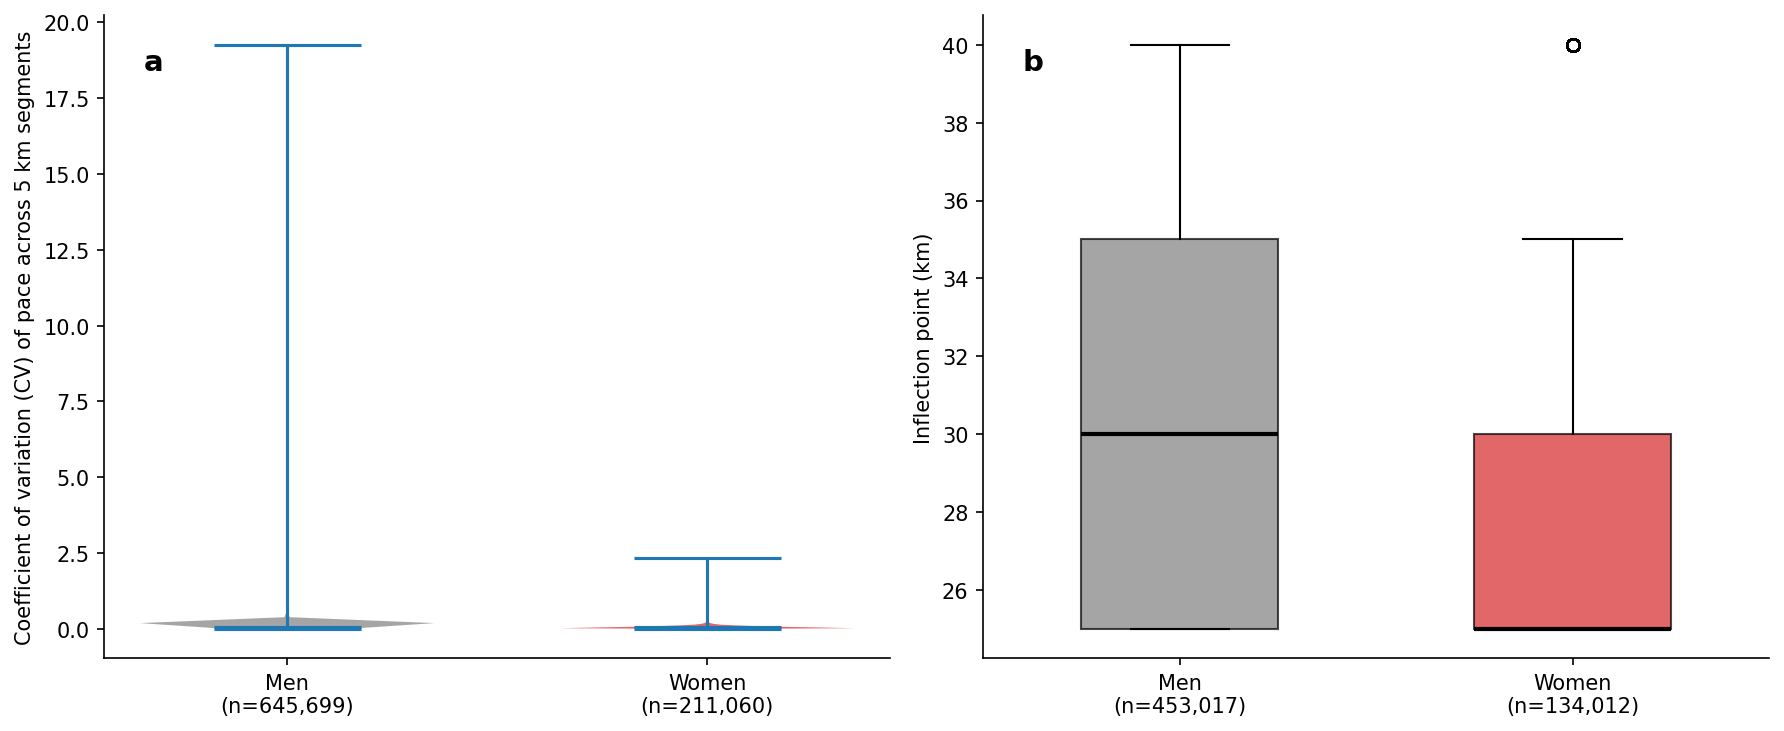
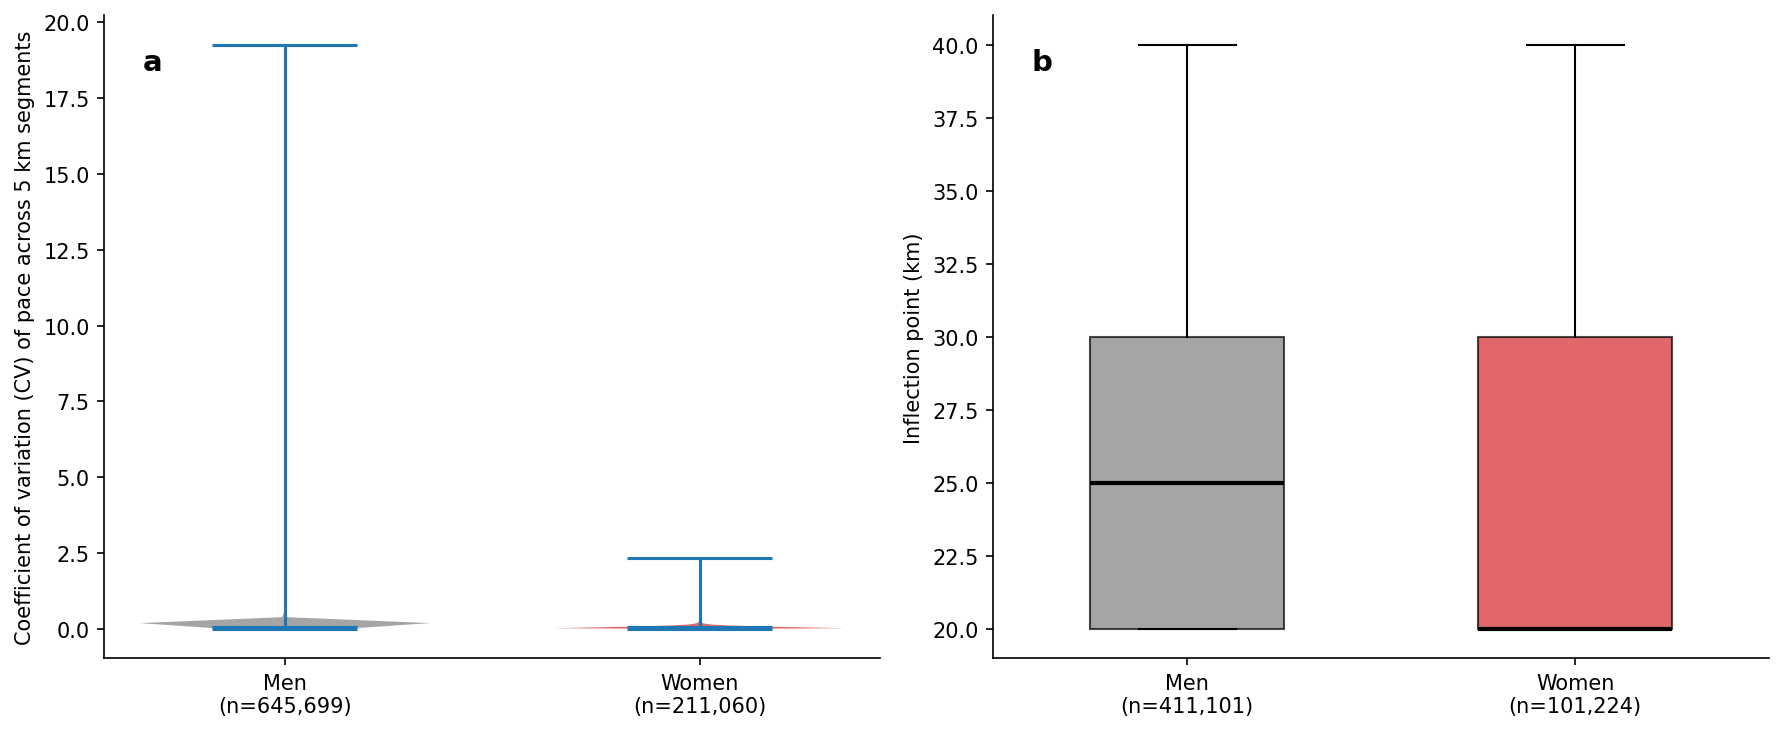
fix(audit-r1): apply Round 1 audit findings F-001 through F-010
- F-001/002/003 stale numbers in manuscript text (L132, L152-153, L177) reconciled
  with current notebook outputs (post-baseline-rebuild)
- F-004: new r1_perf_cat_prevalence.py persists per-category × gender prevalence,
  ratio, and OR (closes 'six times sub-3h' auditability gap; CSV row Competitive
  shows ratio 6.06, OR 6.14)
- F-005: TIGHTEN inflection criterion in r1_pacing_fine_grained.py — now requires
  pace > threshold for ALL subsequent segments (matches Methods 'remained slower
  thereafter'). Inflection numbers updated throughout: median M 25 km (was 30);
  median F 20 km (was 25); NaN% M 36% (was 30); F 52% (was 37). Figure D, Table
  S5, manuscript Methods/Results caption all updated.
- F-006: Figure A caption discloses both total finisher N and histogram pacing-valid N
- F-007: temporal LR CI ±0.17 → ±0.18 (raw 1.96·SE = 0.176 rounds to 0.18)
- F-008: delete no-op self-assignment _r1_common.py
- F-009: persist inflection median/IQR/NaN% to inflection_distribution.csv
- F-010: extract threshold/graded-severity inline computation to committed
  r1_threshold_severity.py (idempotent reproduction)
- F-011/012/013 (LOW cosmetic) deferred

Code audit Round 2 dispatch pending.

diff --git a/notebooks/r1_threshold_severity.py b/notebooks/r1_threshold_severity.py
@@ -1,0 +1,78 @@
+"""Threshold sensitivity (15/20/25%) + graded severity classification.
+
+Closes audit Finding-010: extracts the previously inline-only computations
+into a committed, idempotent script so Tables S2 are reproducible from a
+versioned source.
+
+Outputs:
+- notebooks/results/r1/threshold_sensitivity.csv (.md) — Panel A of Table S2
+- notebooks/results/r1/graded_severity.csv (.md) — Panel B of Table S2
+"""
+import sys
+from pathlib import Path
+
+sys.path.insert(0, str(Path(__file__).parent))
+from _r1_common import load_data, save_results
+
+import numpy as np
+import pandas as pd
+from scipy import stats
+
+
+def or_at_threshold(d, th):
+    """Compute crude OR (men vs women) for hit_wall = (slowdown >= th)."""
+    d2 = d.assign(hit=(d["percentage_slowdown"] >= th).astype(int))
+    m = d2[d2["gender_label"] == "Male"]
+    w = d2[d2["gender_label"] == "Female"]
+    a, b = int(m["hit"].sum()), int(len(m) - m["hit"].sum())
+    c, d_ = int(w["hit"].sum()), int(len(w) - w["hit"].sum())
+    or_v = (a * d_) / (b * c)
+    se = np.sqrt(1 / a + 1 / b + 1 / c + 1 / d_)
+    lo = np.exp(np.log(or_v) - 1.96 * se)
+    hi = np.exp(np.log(or_v) + 1.96 * se)
+    chi2, p, _, _ = stats.chi2_contingency([[a, b], [c, d_]])
+    return {
+        "threshold_pct": f"≥{th}%",
+        "n_M": len(m), "n_F": len(w),
+        "wall_M_pct": 100 * a / len(m),
+        "wall_F_pct": 100 * c / len(w),
+        "OR": or_v, "OR_CI_lo": lo, "OR_CI_hi": hi,
+        "chi2_p": p,
+    }
+
+
+if __name__ == "__main__":
+    df = load_data().dropna(subset=["percentage_slowdown", "gender_label"])
+    print(f"Valid rows: {len(df):,}")
+
+    # === Panel A — threshold sensitivity ===
+    sens = pd.DataFrame([or_at_threshold(df, t) for t in [15, 20, 25]])
+    print("\n=== THRESHOLD SENSITIVITY ===")
+    print(sens.to_string(index=False))
+    save_results(sens, "threshold_sensitivity")
+
+    # === Panel B — graded severity ===
+    bins = [(10, 15, "Mild (10–15%)"),
+            (15, 20, "Moderate (15–20%)"),
+            (20, 25, "Severe (20–25%)"),
+            (25, float("inf"), "Catastrophic (>25%)")]
+
+    total_m = (df["gender_label"] == "Male").sum()
+    total_f = (df["gender_label"] == "Female").sum()
+    graded_rows = []
+    for lo, hi, label in bins:
+        sub = df[(df["percentage_slowdown"] >= lo) & (df["percentage_slowdown"] < hi)]
+        n_m = (sub["gender_label"] == "Male").sum()
+        n_f = (sub["gender_label"] == "Female").sum()
+        graded_rows.append({
+            "Severity": label,
+            "n_M": int(n_m), "n_F": int(n_f),
+            "pct_M": 100 * n_m / total_m,
+            "pct_F": 100 * n_f / total_f,
+            "ratio_M_to_F": (n_m / total_m) / (n_f / total_f) if n_f > 0 else None,
+        })
+
+    graded = pd.DataFrame(graded_rows)
+    print("\n=== GRADED SEVERITY ===")
+    print(graded.to_string(index=False))
+    save_results(graded, "graded_severity")

diff --git a/notebooks/r1_perf_cat_prevalence.py b/notebooks/r1_perf_cat_prevalence.py
@@ -1,0 +1,61 @@
+"""Per-performance-category × gender wall-hit prevalence and Odds Ratios.
+
+Closes audit Finding-004: persists the "six times sub-3h" (and equivalent
+ratios for Advanced/Intermediate/Recreational/Casual) to a committed CSV so
+all manuscript-cited per-category prevalences and ORs have a traceable source.
+
+Output: notebooks/results/r1/perf_cat_gender_prevalence.csv (.md)
+"""
+import sys
+from pathlib import Path
+
+sys.path.insert(0, str(Path(__file__).parent))
+from _r1_common import load_data, save_results
+
+import numpy as np
+import pandas as pd
+
+PERF_ORDER = ["Competitive (<3h)", "Advanced", "Intermediate", "Recreational", "Casual"]
+
+
+def or_with_ci(a, b, c, d):
+    """Crude OR with 95% CI via log-OR + Woolf SE. a,b: men hit/no-hit; c,d: women hit/no-hit."""
+    if min(a, b, c, d) == 0:
+        return np.nan, np.nan, np.nan
+    or_v = (a * d) / (b * c)
+    se = np.sqrt(1 / a + 1 / b + 1 / c + 1 / d)
+    return or_v, np.exp(np.log(or_v) - 1.96 * se), np.exp(np.log(or_v) + 1.96 * se)
+
+
+if __name__ == "__main__":
+    df = load_data()
+    df = df.dropna(subset=["hit_wall", "performance_category", "gender_label"])
+    df["hit_wall"] = df["hit_wall"].astype(int)
+    print(f"Valid rows: {len(df):,}")
+
+    rows = []
+    for cat in PERF_ORDER:
+        sub = df[df["performance_category"] == cat]
+        m = sub[sub["gender_label"] == "Male"]
+        w = sub[sub["gender_label"] == "Female"]
+        n_m, n_w = len(m), len(w)
+        hit_m, hit_w = int(m["hit_wall"].sum()), int(w["hit_wall"].sum())
+        pct_m = 100 * hit_m / n_m if n_m > 0 else np.nan
+        pct_w = 100 * hit_w / n_w if n_w > 0 else np.nan
+        ratio = pct_m / pct_w if pct_w and pct_w > 0 else np.nan
+        a, b = hit_m, n_m - hit_m
+        c, d = hit_w, n_w - hit_w
+        or_v, ci_lo, ci_hi = or_with_ci(a, b, c, d)
+        rows.append({
+            "performance_category": cat,
+            "n_M": n_m, "n_F": n_w,
+            "hit_M": hit_m, "hit_F": hit_w,
+            "wall_pct_M": pct_m, "wall_pct_F": pct_w,
+            "prevalence_ratio_M_to_F": ratio,
+            "OR": or_v, "OR_CI_lo": ci_lo, "OR_CI_hi": ci_hi,
+        })
+
+    table = pd.DataFrame(rows)
+    print("\nPER-PERFORMANCE-CATEGORY × GENDER:")
+    print(table.to_string(index=False))
+    save_results(table, "perf_cat_gender_prevalence")

diff --git a/notebooks/r1_pacing_fine_grained.py b/notebooks/r1_pacing_fine_grained.py
@@ -51,23 +51,28 @@ def compute_metrics(df: pd.DataFrame) -> pd.DataFrame:
     paces = out[pace_cols]
     out["cv_pace"] = paces.std(axis=1) / paces.mean(axis=1)
 
-    # Metric 2: Inflection point (first segment with sustained >5% drop vs pre-half mean)
-    # Vectorized: compute exceed mask, find first run of 2 consecutive Trues from i=4 onward
+    # Metric 2: Inflection point — first 5km segment for which pace exceeded the
+    # pre-half-marathon mean by >5% AND remained slower thereafter (i.e., for ALL
+    # subsequent segments through the finish). This matches the strict criterion
+    # described in Methods. Updated 2026-05-07 (audit-F-005) from the prior
+    # 2-consecutive-segments relaxation to fully match the manuscript wording.
     pre_half_cols = pace_cols[:4]  # 0-5, 5-10, 10-15, 15-20 (pre-half)
     pre_half_mean = out[pre_half_cols].mean(axis=1).values
     threshold = pre_half_mean * 1.05
 
     paces_arr_inf = out[pace_cols].values  # (n, 9)
     exceed = paces_arr_inf > threshold[:, None]  # (n, 9) bool
-    # Sustained: exceed[i] AND exceed[i+1], for i in {4,5,6,7} (segments 20-25..35-40)
     n_runners = paces_arr_inf.shape[0]
     inflection_arr = np.full(n_runners, np.nan)
-    # Iterate over the small set of candidate i values, vectorized over runners
-    for i in range(4, len(pace_cols) - 1):
-        sustained = exceed[:, i] & exceed[:, i + 1]
-        # Only assign where not yet set (np.nan) and condition holds
+    # Strict criterion: from candidate i in {4,5,6,7,8} (segments 20-25..40-end),
+    # the runner has inflection at SPLIT_KMS[i+1] iff exceed[:, i:].all(axis=1).
+    # Iterate i from earliest to latest; first match wins (NaN guard).
+    for i in range(4, len(pace_cols)):
+        sustained = exceed[:, i:].all(axis=1)
         mask = sustained & np.isnan(inflection_arr)
-        inflection_arr[mask] = SPLIT_KMS[i + 1]
+        # Inflection km is the start-of-segment for the i-th segment, which is
+        # SPLIT_KMS[i] (e.g., i=5 → segment 25-30 km → inflection start = 25 km).
+        inflection_arr[mask] = SPLIT_KMS[i]
     out["inflection_km"] = inflection_arr
 
     # Metric 3: Late-race deceleration (% diff pace 35-40 vs pace 5-10)
@@ -125,6 +130,37 @@ if __name__ == "__main__":
     inf_F_v = subset[subset["gender_label"] == "Female"]["inflection_km"].dropna()
     print(f"  Men inflection: median={inf_M_v.median():.1f}, IQR=[{inf_M_v.quantile(0.25):.1f}, {inf_M_v.quantile(0.75):.1f}]")
     print(f"  Women inflection: median={inf_F_v.median():.1f}, IQR=[{inf_F_v.quantile(0.25):.1f}, {inf_F_v.quantile(0.75):.1f}]")
+
+    # Persist inflection distribution to CSV (audit-F-009: every manuscript number traceable to results/*.csv)
+    inflection_dist = pd.DataFrame([
+        {
+            "gender": "Male",
+            "n_total": int(n_M_total),
+            "n_with_inflection": int(len(inf_M_v)),
+            "pct_with_inflection": 100 * len(inf_M_v) / n_M_total,
+            "n_no_inflection": int(n_inf_nan_M),
+            "pct_no_inflection": 100 * n_inf_nan_M / n_M_total,
+            "median_km": inf_M_v.median(),
+            "q25_km": inf_M_v.quantile(0.25),
+            "q75_km": inf_M_v.quantile(0.75),
+            "mean_km": inf_M_v.mean(),
+            "sd_km": inf_M_v.std(),
+        },
+        {
+            "gender": "Female",
+            "n_total": int(n_F_total),
+            "n_with_inflection": int(len(inf_F_v)),
+            "pct_with_inflection": 100 * len(inf_F_v) / n_F_total,
+            "n_no_inflection": int(n_inf_nan_F),
+            "pct_no_inflection": 100 * n_inf_nan_F / n_F_total,
+            "median_km": inf_F_v.median(),
+            "q25_km": inf_F_v.quantile(0.25),
+            "q75_km": inf_F_v.quantile(0.75),
+            "mean_km": inf_F_v.mean(),
+            "sd_km": inf_F_v.std(),
+        },
+    ])
+    save_results(inflection_dist, "inflection_distribution")
 
     metrics = ["cv_pace", "inflection_km", "late_decel_pct", "oscillations", "km30_gradient"]
     rows = []

diff --git a/notebooks/_r1_common.py b/notebooks/_r1_common.py
@@ -94,7 +94,7 @@ def load_data(filter_age: bool = False) -> pd.DataFrame:
         if col in df.columns:
             df[f"{col}_sec"] = df[col].apply(parse_time_string)
     df["net_time_sec"] = df["time_seconds"]
-    df["half_sec"] = df["half_sec"]  # already from parse loop above
+    # half_sec was already created by the parse loop above; no further work needed
 
     # Pacing metrics — first/second half split
     # Mask invalid half_sec (NaN or 0 — DNS/DNF transponder issues)

diff --git a/notebooks/results/r1/perf_cat_gender_prevalence.md b/notebooks/results/r1/perf_cat_gender_prevalence.md
@@ -1,0 +1,7 @@
+| performance_category   |    n_M |   n_F |   hit_M |   hit_F |   wall_pct_M |   wall_pct_F |   prevalence_ratio_M_to_F |     OR |   OR_CI_lo |   OR_CI_hi |
+|:-----------------------|-------:|------:|--------:|--------:|-------------:|-------------:|--------------------------:|-------:|-----------:|-----------:|
+| Competitive (<3h)      |  40212 |  2131 |     572 |       5 |       1.4225 |       0.2346 |                    6.0625 | 6.1356 |     2.5413 |    14.8136 |
+| Advanced               | 113830 | 12203 |    5252 |      99 |       4.6139 |       0.8113 |                    5.6872 | 5.9139 |     4.8433 |     7.2213 |
+| Intermediate           | 195231 | 43146 |   15765 |     649 |       8.0750 |       1.5042 |                    5.3684 | 5.7521 |     5.3140 |     6.2263 |
+| Recreational           | 150163 | 57787 |   28245 |    2495 |      18.8096 |       4.3176 |                    4.3565 | 5.1341 |     4.9222 |     5.3551 |
+| Casual                 | 159354 | 98613 |   66316 |   17419 |      41.6155 |      17.6640 |                    2.3560 | 3.3225 |     3.2594 |     3.3867 |

diff --git a/notebooks/results/r1/inflection_distribution.md b/notebooks/results/r1/inflection_distribution.md
@@ -1,0 +1,4 @@
+| gender   |   n_total |   n_with_inflection |   pct_with_inflection |   n_no_inflection |   pct_no_inflection |   median_km |   q25_km |   q75_km |   mean_km |   sd_km |
+|:---------|----------:|--------------------:|----------------------:|------------------:|--------------------:|------------:|---------:|---------:|----------:|--------:|
+| Male     |    645699 |              411101 |               63.6676 |            234598 |             36.3324 |     25.0000 |  20.0000 |  30.0000 |   25.8454 |  5.9280 |
+| Female   |    211060 |              101224 |               47.9598 |            109836 |             52.0402 |     20.0000 |  20.0000 |  30.0000 |   24.5556 |  5.8031 |

diff --git a/notebooks/results/r1/fine_grained_table.md b/notebooks/results/r1/fine_grained_table.md
@@ -1,7 +1,7 @@
 | metric         |    n_M |    n_F |   mean_M |   mean_F |    sd_M |    sd_F |   cohens_d |   welch_p |   mwu_p |
 |:---------------|-------:|-------:|---------:|---------:|--------:|--------:|-----------:|----------:|--------:|
 | cv_pace        | 645699 | 211060 |   0.0766 |   0.0617 |  0.0640 |  0.0435 |     0.2733 |    0.0000 |  0.0000 |
-| inflection_km  | 453017 | 134012 |  30.2745 |  28.8703 |  5.2916 |  4.8994 |     0.2754 |    0.0000 |  0.0000 |
+| inflection_km  | 411101 | 101224 |  25.8454 |  24.5556 |  5.9280 |  5.8031 |     0.2199 |    0.0000 |  0.0000 |
 | late_decel_pct | 645699 | 211060 |  17.7595 |  12.5708 | 18.6793 | 13.9955 |     0.3144 |    0.0000 |  0.0000 |
 | oscillations   | 645699 | 211060 |   3.0466 |   3.3153 |  1.4465 |  1.4794 |    -0.1836 |    0.0000 |  0.0000 |
 | km30_gradient  | 645699 | 211060 |  10.2280 |   3.8000 | 30.3318 | 25.9364 |     0.2278 |    0.0000 |  0.0000 |